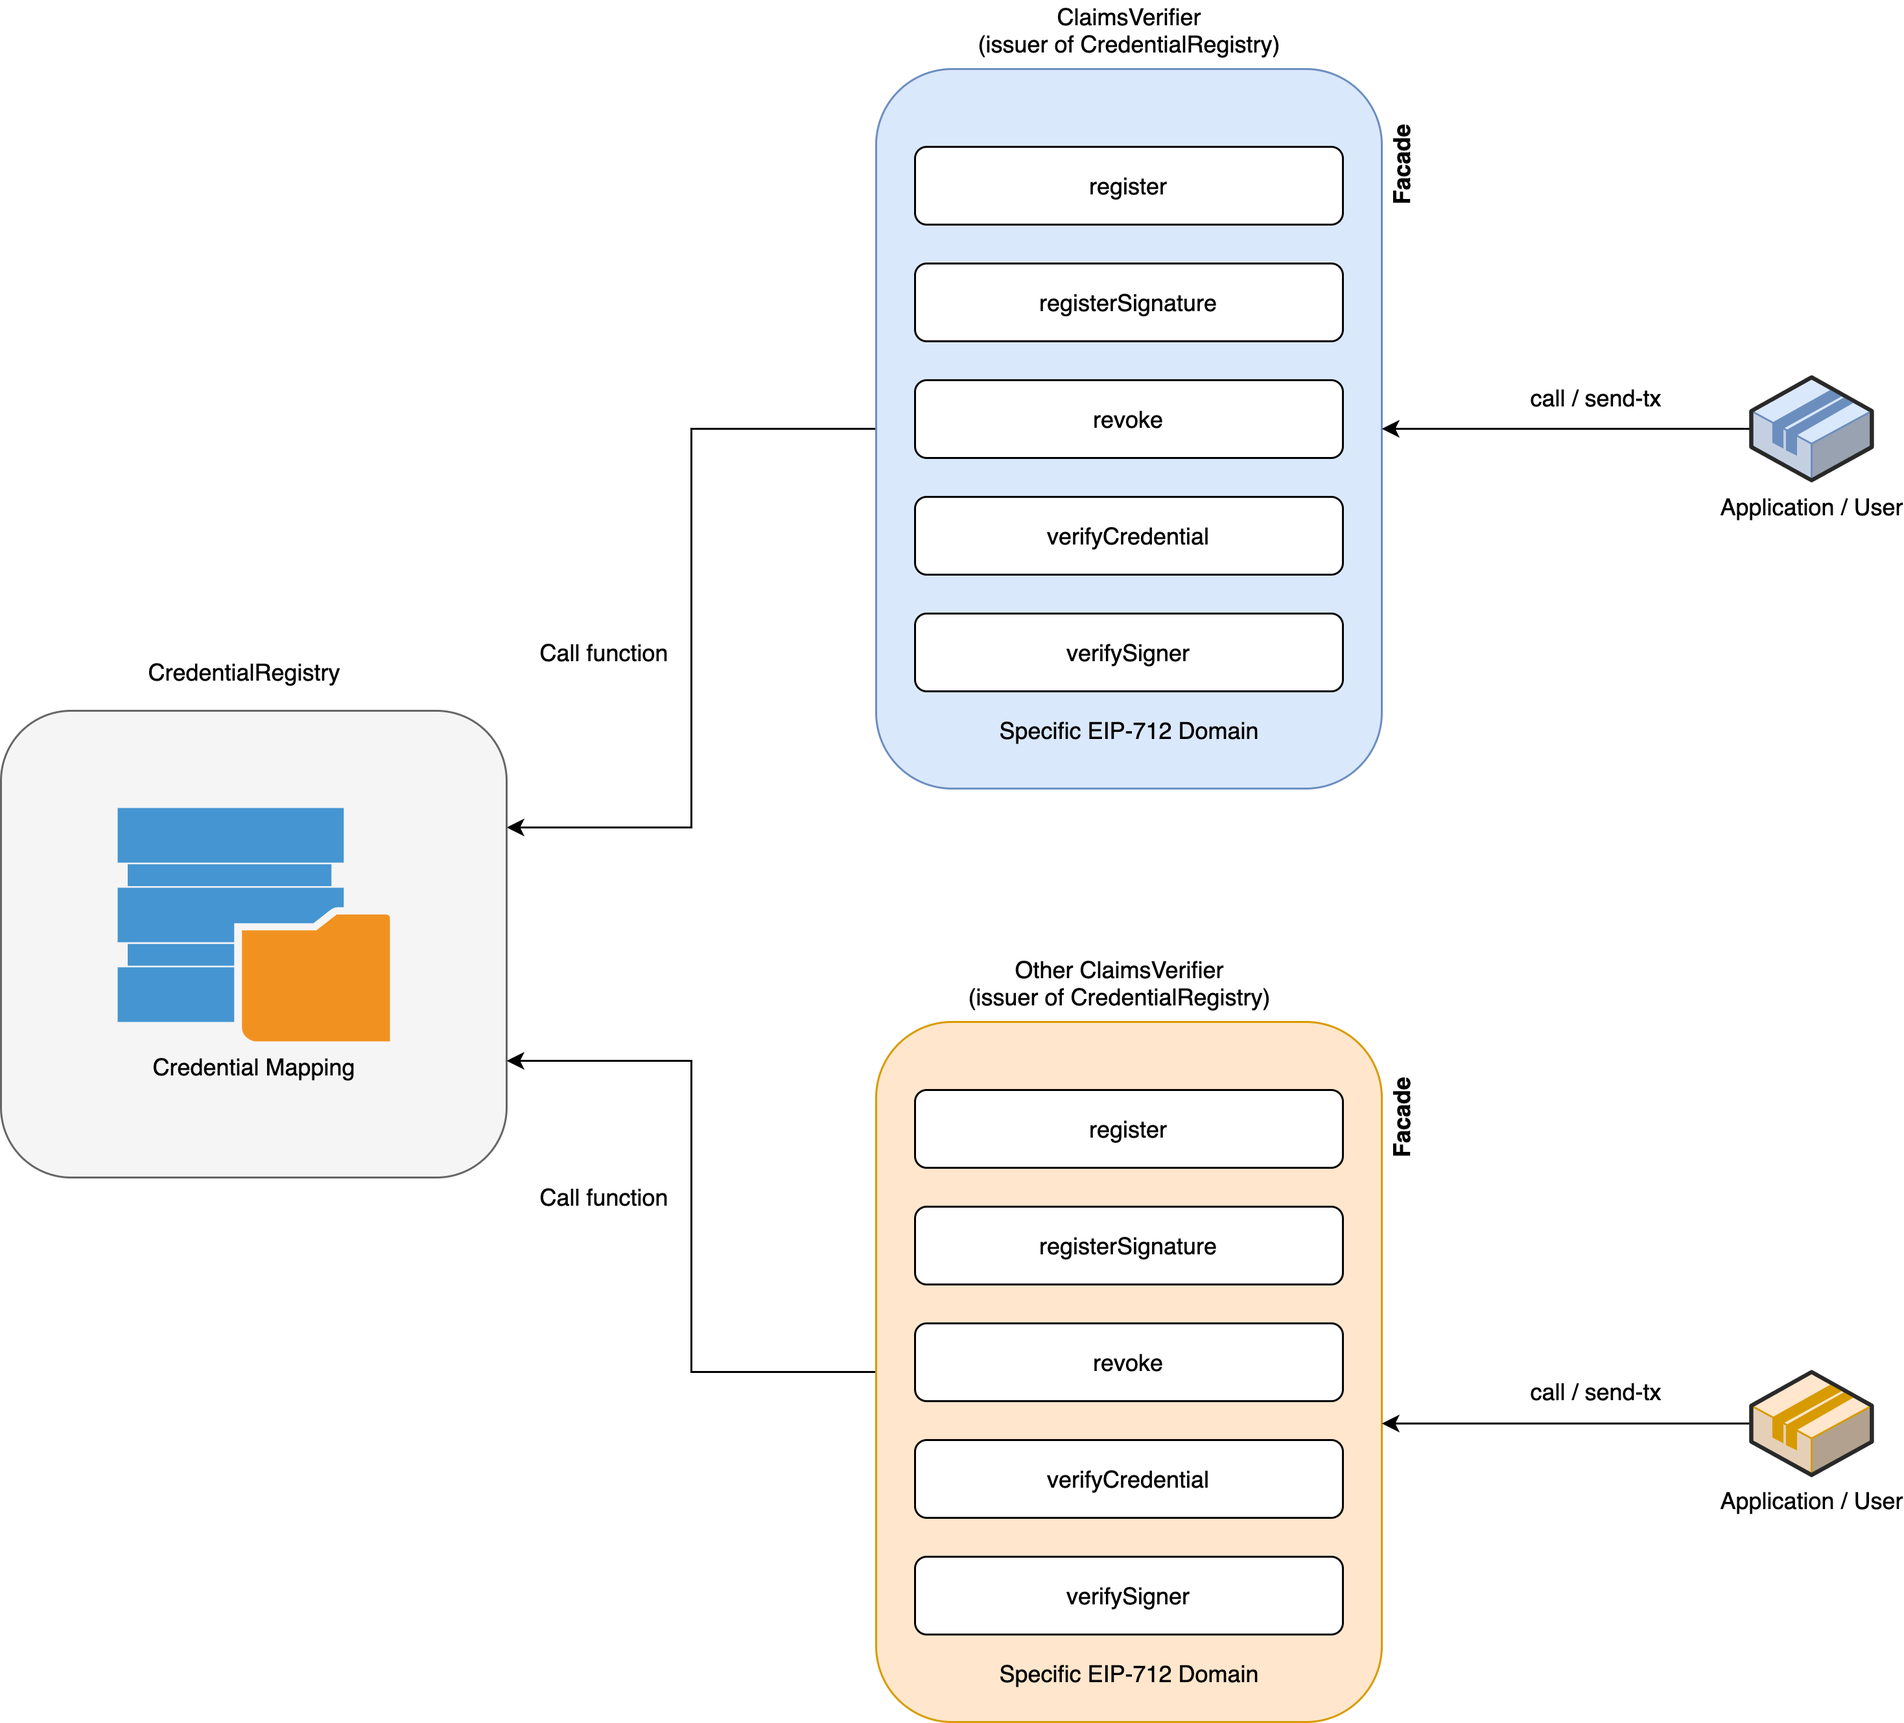
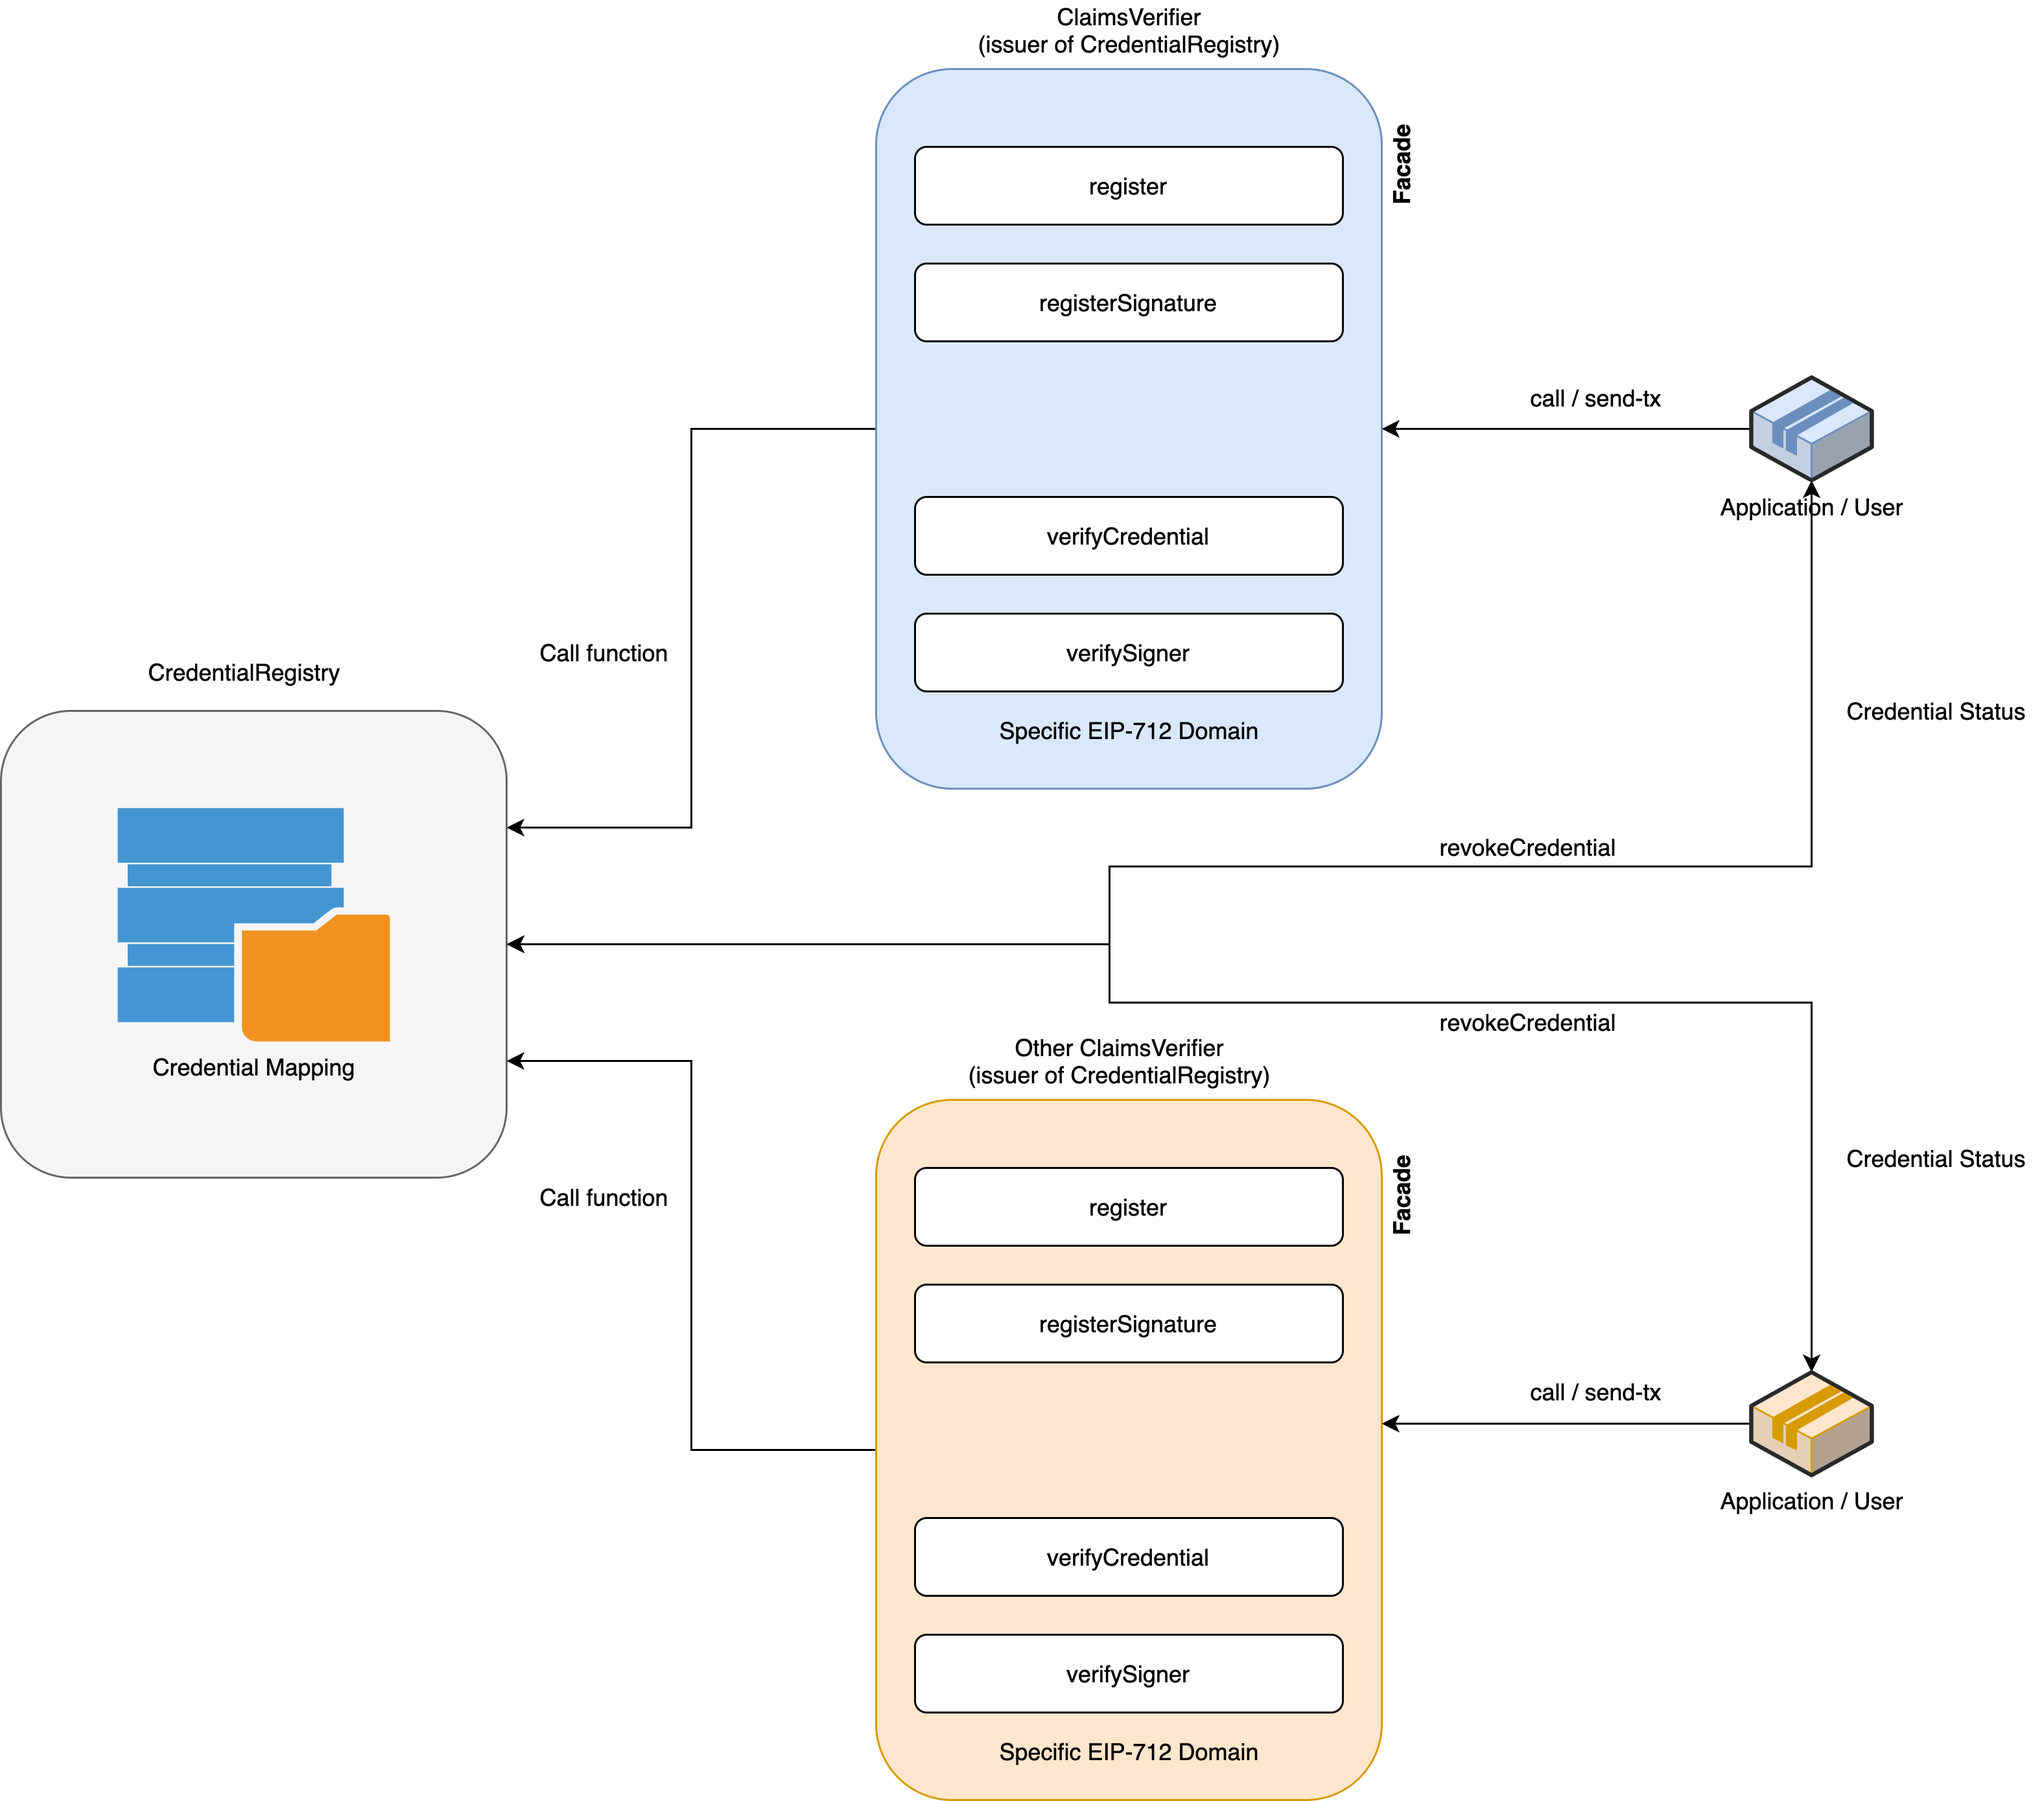
Documentation

diff --git a/test/credential.js b/test/credential.js
@@ -222,12 +222,12 @@ contract( "DIDRegistry Recoverable", accounts => {
 
 		const credentialHash = getCredentialHash( vc, issuer, instance.address );
 
-		const tx = await registry.revoke( credentialHash );
+		const tx = await registry.revokeCredential( credentialHash );
 
 		assert.equal( tx.receipt.status, true );
 	} );
 
-	it( "should fail verify credential status", async() => {
+	it( "should fail the verification process due credential status", async() => {
 		const instance = await ClaimsVerifier.deployed()
 
 		const data = `0x${sha256( JSON.stringify( vc.credentialSubject ) )}`;
@@ -243,5 +243,16 @@ contract( "DIDRegistry Recoverable", accounts => {
 		const isNotRevoked = result[1];
 
 		assert.equal( isNotRevoked, false );
+	} );
+
+	it( "should verify credential status using the CredentialRegistry", async() => {
+		const instance = await ClaimsVerifier.deployed()
+		const registry = await CredentialRegistry.deployed()
+
+		const credentialHash = getCredentialHash( vc, issuer, instance.address );
+
+		const result = await registry.status( issuer.address, credentialHash );
+
+		assert.equal( result, false );
 	} );
 } );

diff --git a/README.md b/README.md
@@ -1,5 +1,5 @@
 ## Introduction
-In this repository are the smart contracts based on [EIP-712](https://eips.ethereum.org/EIPS/eip-712) and [EIP-1812](https://eips.ethereum.org/EIPS/eip-1812) for Structured Data Types and Verifiable Claims respectively, to perform the verification process of [Verifiable Credentials](https://www.w3.org/TR/vc-data-model/) on-chain.
+In this repository are the smart contracts based on [EIP-712](https://eips.ethereum.org/EIPS/eip-712) and [EIP-1812](https://eips.ethereum.org/EIPS/eip-1812) for Structured Data Types and Verifiable Claims respectively, to perform the registration and verification process of [Verifiable Credentials](https://www.w3.org/TR/vc-data-model/) on-chain.
 
 ### Structure
 
@@ -118,6 +118,39 @@ Where:
 - **_signature**: Are the signature of the signer in hex format
 
 The result is only a boolean if the signature is correct.
+
+### 4. Revocation
+As shown in the structure diagram, the process of revocation of a credential must be called directly in the **CredentialRegistry** contract, this is because this function validates that only the issuer can execute this operation (since if the facade is used, the ``msg.sender`` would be the address of the **ClaimVerifier**).
+
+```solidity
+function revokeCredential(bytes32 _credentialHash)
+```
+
+Where:
+- **_credentialHash**: It is the generated credential hash
+
+This function will revoke the credential hash associated to the ``msg.sender`` and the credential hash.
+
+#### Verify the credential status (Revocation List)
+
+Taking advantage of the fact that the CredentialRegistry maintains the revocation status of any credential regardless of the type, we have decided to implement a method to verify this information using this same contract, as follows:
+
+```solidity
+function status(address issuer, bytes32 _credentialHash) external view returns (bool)
+```
+
+Where:
+- **issuer**: It is the issuer address
+- **_credentialHash**: It is the generated credential hash
+
+This information could be used to define the ``credentialStatus`` of a Verifiable Credential.
+
+```json
+"credentialStatus": {
+    "id": "<CREDENTIAL_REGISTRY_ADDRESS>"
+    "type": "SmartContract",
+}
+```
 
 ## Pre-requisites
 
